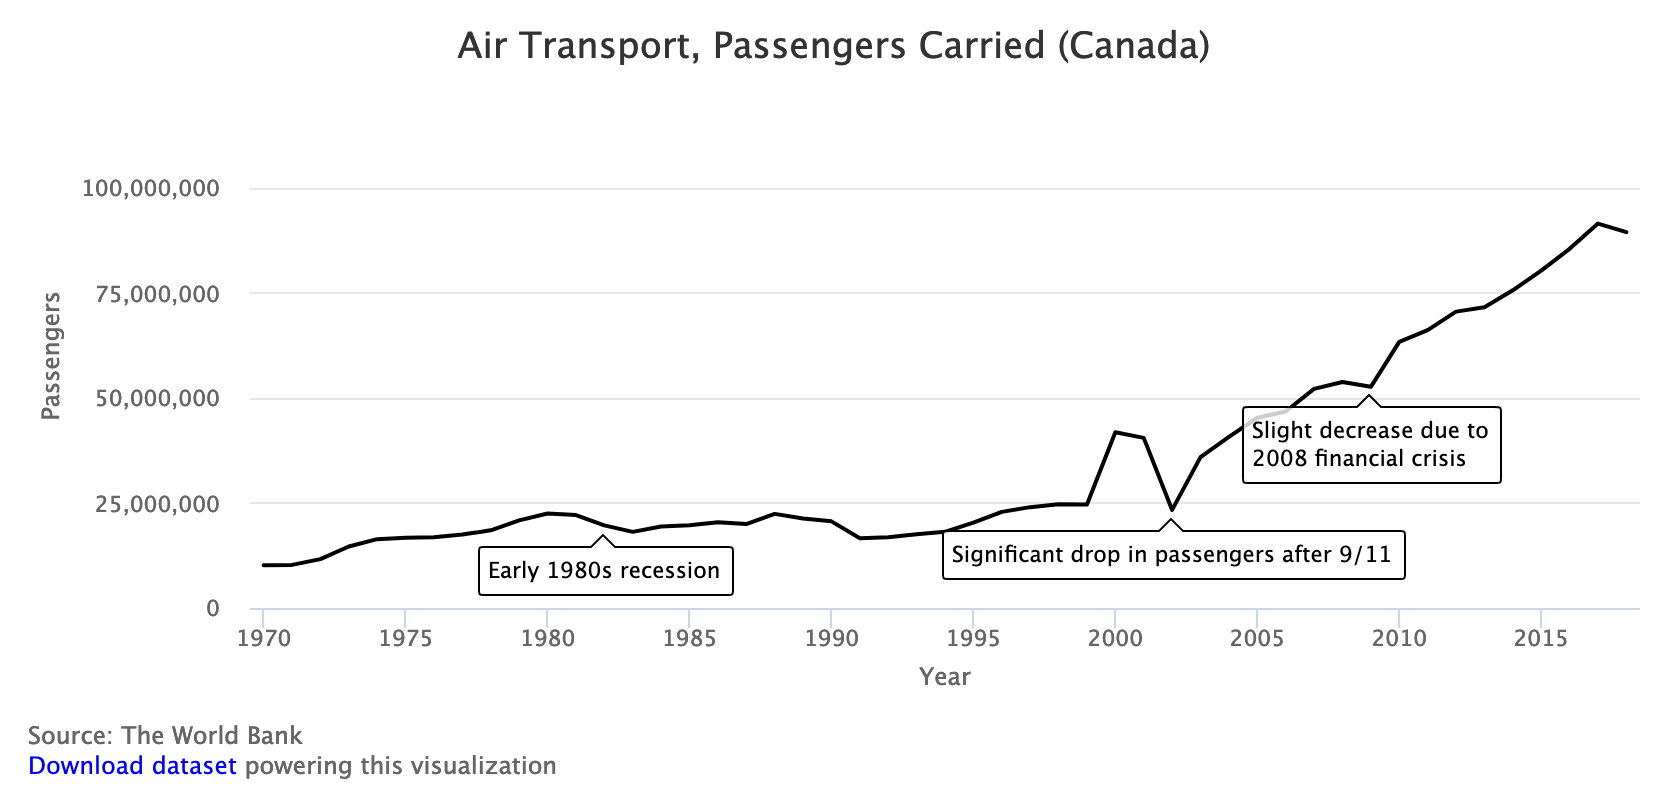
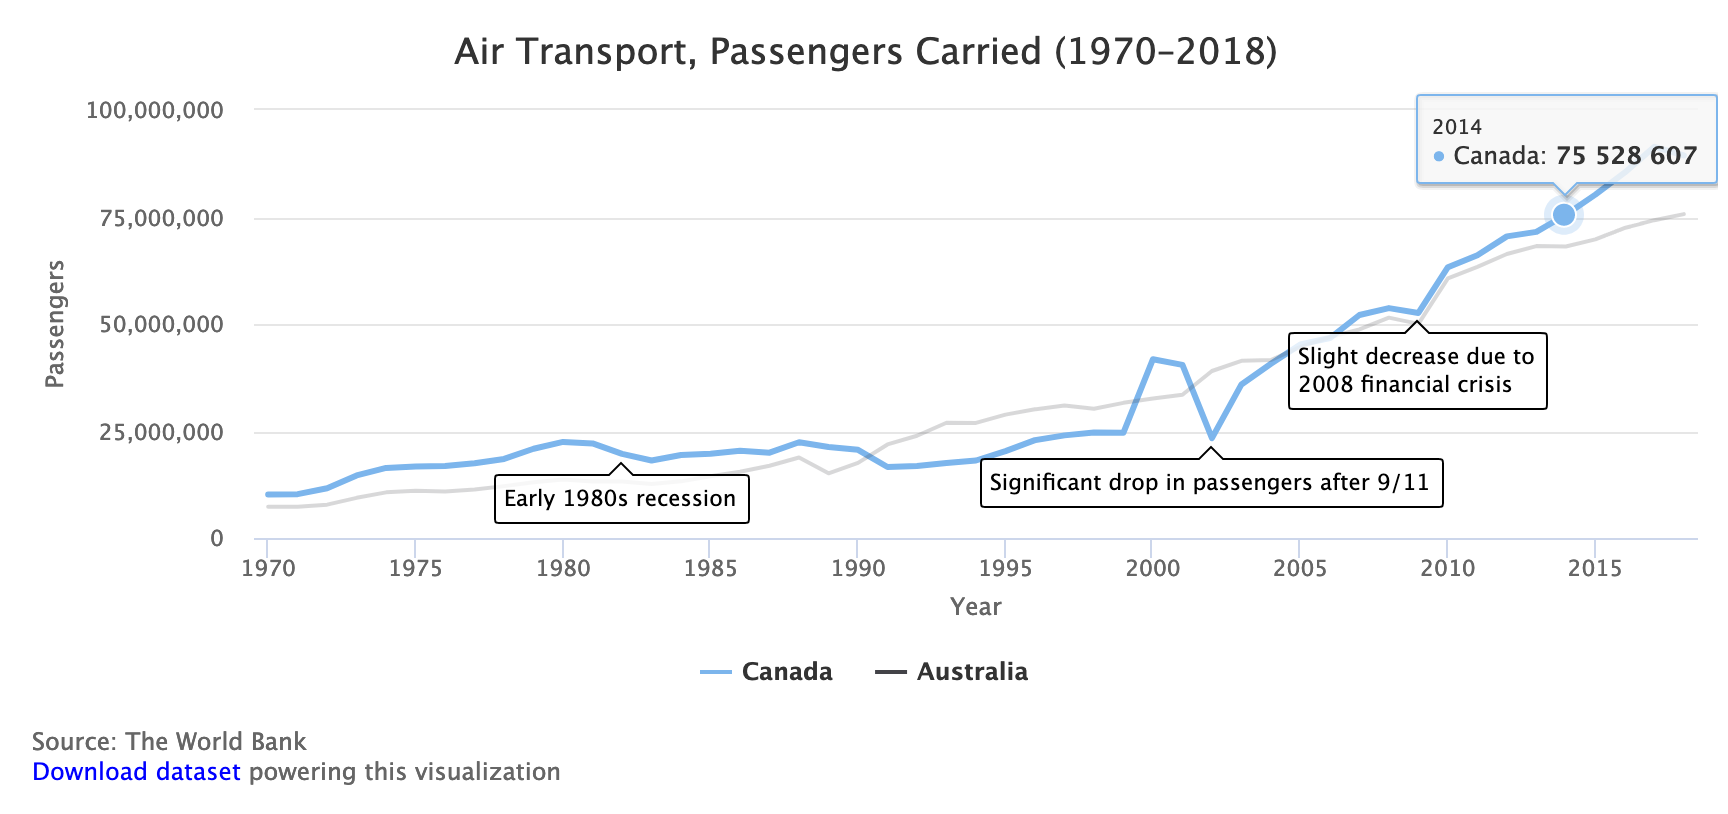
Add support for 2+ seies

diff --git a/script.js b/script.js
@@ -1,4 +1,4 @@
-var TITLE = 'Air Transport, Passengers Carried (Canada)';
+var TITLE = 'Air Transport, Passengers Carried (1970–2018)';
 
 // Caption underneath the chart
 var CAPTION = 'Source: The World Bank'
@@ -9,13 +9,9 @@ CAPTION += '<br><a href="./data.csv" style="color: blue">Download dataset</a> po
 var X_AXIS = 'Year';  // x-axis label and label in tooltip
 var Y_AXIS = 'Passengers'; // y-axis label and label in tooltip
 
-var BEGIN_AT_ZERO = false;  // Should x-axis start from 0? `true` or `false`
+var BEGIN_AT_ZERO = true;  // Should y-axis start from 0? `true` or `false`
 
-var SHOW_GRID = true; // `true` to show the grid, `false` to hide
-var SHOW_LEGEND = false; // `true` to show the legend, `false` to hide
-
-var SERIES_NAME = 'Passengers Carried'
-var SERIES_COLOR = 'black'
+var SHOW_LEGEND = true; // `true` to show the legend, `false` to hide
 
 $(document).ready(function() {
 
@@ -23,9 +19,10 @@ $(document).ready(function() {
   $.get('./data.csv', function(csvString) {
 
     var data = Papa.parse(csvString).data;
+    var nSeries = data[0].length - 2
 
     var annotationPoints = data
-      .filter(function(x) {return x[2] !== ""})
+      .filter(function(x) {return x[nSeries+1] !== ""})
       .map(function(x) {
         return {
           point: {
@@ -34,9 +31,18 @@ $(document).ready(function() {
             x: x[0],
             y: x[1]
           },
-          text: x[2]
+          text: x[nSeries+1]
         }
       })
+
+    var series = []
+    for (var i = 1; i <= nSeries; i++) {
+      series.push({
+        data: data.map(function(x) { return [parseFloat(x[0]), parseFloat(x[i])] }),
+        name: data[0][i],
+        marker: { enabled: false },
+      })
+    }
 
     // Now create the chart
     Highcharts.chart('container', {
@@ -66,39 +72,18 @@ $(document).ready(function() {
 
       xAxis: {
         title: { text: X_AXIS },
-        labels: { format: '{value}' },
-        minRange: 0,
       },
 
       yAxis: {
         startOnTick: true,
-        endOnTick: false,
-        maxPadding: 0.35,
+        min: BEGIN_AT_ZERO ? 0 : null,
         title: { text: Y_AXIS },
         labels: { formatter: function(x) {return x.value.toLocaleString()} }
       },
 
-      tooltip: {
-          /*headerFormat: 'Distance: {point.x:.1f} km<br>',
-          pointFormat: '{point.y} m a. s. l.',
-          shared: true */
-      },
+      legend: { enabled: SHOW_LEGEND },
 
-      legend: {
-          enabled: SHOW_LEGEND
-      },
-
-      series: [{
-        data: data.map(function(x) {return [ parseFloat(x[0]), parseFloat(x[1])]}),
-        lineColor: SERIES_COLOR,
-        color: SERIES_COLOR,
-        fillOpacity: 0.5,
-        name: SERIES_NAME,
-        marker: {
-            enabled: false
-        },
-        threshold: null
-      }]
+      series: series,
 
     });
 

diff --git a/README.md b/README.md
@@ -3,14 +3,15 @@
 ![Annotated line chart](./annotated-line-example.png)
 
 In `data.csv`, each row is a point in time (x-axis). First column are x-axis values,
-second column are y-axis values. The third column contains annotations.
+second and all other columns except the last one column are y-axis values.
+The final column contains annotations.
 You can use HTML tags inside an annotation (such as `<br>` to break for a new line,
 or `<b>bold text</b>` for bold text).
 
 In `script.js`, you can customize the values of variables shown in the code snippet below. For more customization, see [Highcharts API reference](https://api.highcharts.com/highcharts/).
 
 ```javascript
-var TITLE = 'Air Transport, Passengers Carried (Canada)';
+var TITLE = 'Air Transport, Passengers Carried (1970–2018)';
 
 // Caption underneath the chart
 var CAPTION = 'Source: The World Bank'
@@ -21,13 +22,9 @@ CAPTION += '<br><a href="./data.csv" style="color: blue">Download dataset</a> po
 var X_AXIS = 'Year';  // x-axis label and label in tooltip
 var Y_AXIS = 'Passengers'; // y-axis label and label in tooltip
 
-var BEGIN_AT_ZERO = false;  // Should x-axis start from 0? `true` or `false`
+var BEGIN_AT_ZERO = true;  // Should y-axis start from 0? `true` or `false`
 
-var SHOW_GRID = true; // `true` to show the grid, `false` to hide
-var SHOW_LEGEND = false; // `true` to show the legend, `false` to hide
-
-var SERIES_NAME = 'Passengers Carried'
-var SERIES_COLOR = 'black'
+var SHOW_LEGEND = true; // `true` to show the legend, `false` to hide
 ```
 
 ## See also
